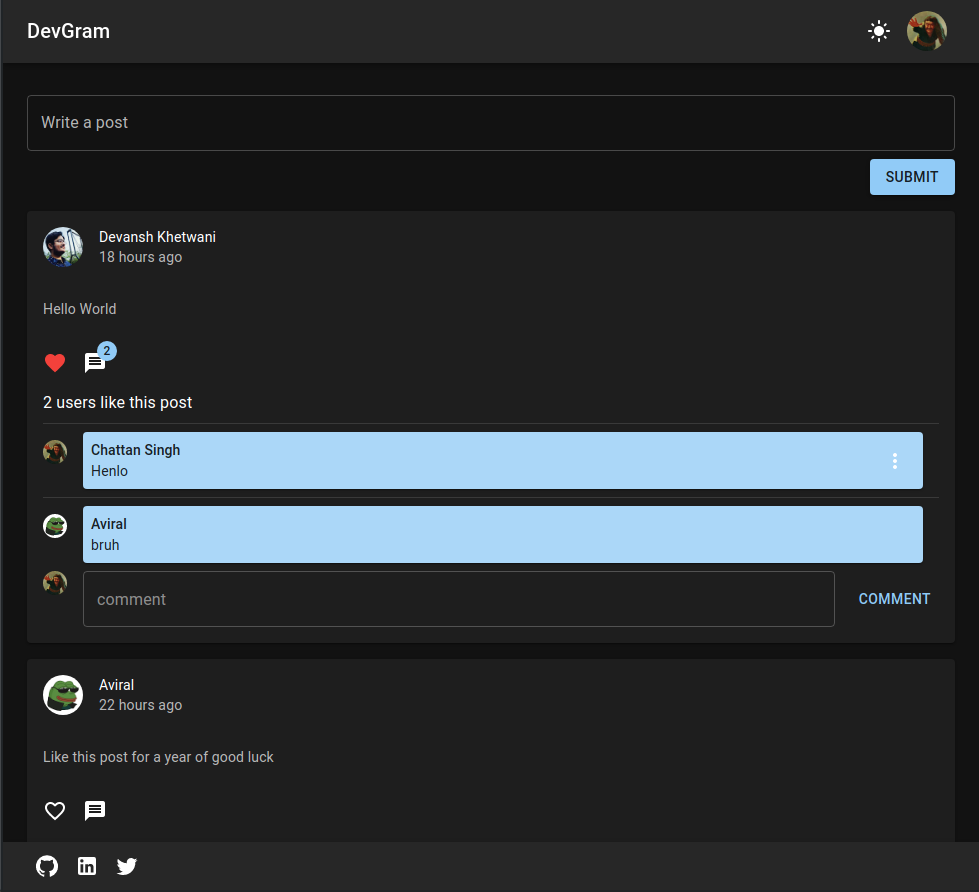
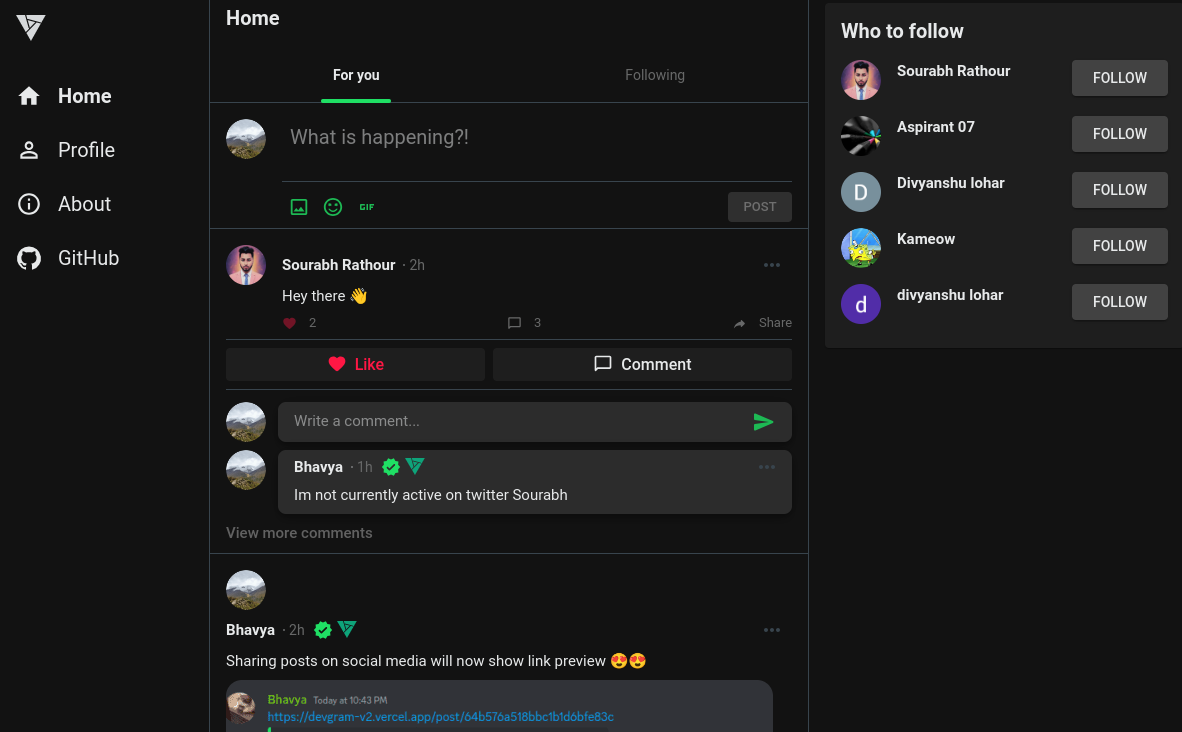
add devgram-v2

diff --git a/lib/projects.ts b/lib/projects.ts
@@ -40,29 +40,29 @@ const projects: Projects = {
     description: [
       "A social networking twitter like web app. Users can **create** posts, **like** posts and **comment** on posts.",
       "User can visit any **user profile** by clicking at their name or avatar to view posts by them.",
-      "This is my first **Graphql** project made using apollo client and Apollo express server with Nestjs.",
-      "Fully strong typed code with **auto generated schema** using nestjs graphql code-first approach, this schema is also used to generate types for client using **graphql-let** that makes code less error prone",
+      "End-to-End typesafe code",
     ],
     images: {
       main: {
         link: "/project/devGram/poster.png",
-        width: 979,
-        height: 892,
+        width: 1182,
+        height: 732,
       },
     },
     stack: [
-      logos.nestjs,
-      logos.apollo,
+      logos.trpc,
+      logos.nextjs,
       logos.react,
-      logos.postgresql,
-      logos.graphql,
-      logos.typescript,
+      logos.mongodb,
+      // logos.graphql,
+      // logos.typescript,
       logos.nodejs,
-      logos.materialui,
+      logos.reactQuery,
+      // logos.materialui,
     ],
     links: {
-      live: "https://devgram-graphql.herokuapp.com",
-      github: "https://github.com/BhavyaCodes/social-nest-gql-typeorm-oauth",
+      live: "https://devgram-v2.vercel.app",
+      github: "https://github.com/BhavyaCodes/devgram-v2",
     },
   },
 
